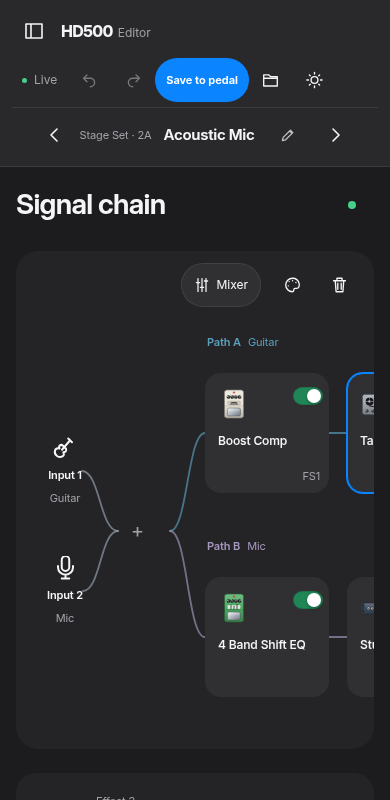
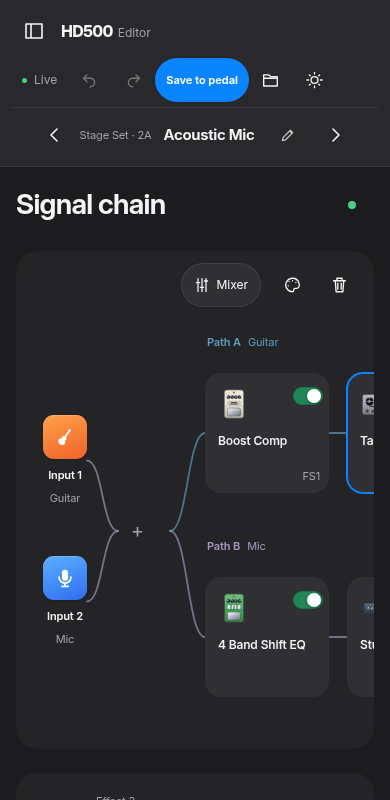
Apple-style input/output tiles (guitar, mic, output)

Changed region(s): [[0.0923, 0.5, 0.3077, 0.8125]]

diff --git a/app/public/js/chain.js b/app/public/js/chain.js
@@ -141,6 +141,22 @@ function prepareDrag(e,it,el) {
   const up=e=>{if(e.pointerId===g.pointer) finish();}, cancelEvent=()=>finish(true), esc=e=>{if(e.key==='Escape'){e.preventDefault();e.stopImmediatePropagation();finish(true);}};
   addEventListener('pointermove',move,{passive:false}); addEventListener('pointerup',up); addEventListener('pointercancel',cancelEvent); addEventListener('keydown',esc,true);
 }
+const NS='http://www.w3.org/2000/svg';
+const GLYPH={
+  guitar:{fill:'M10 9.6c1.4 0 2.3.8 2.3 1.9 0 .5-.2.9-.5 1.2.9.4 1.5 1.3 1.5 2.4 0 1.7-1.5 2.9-3.3 2.9s-3.3-1.2-3.3-2.9c0-1.1.6-2 1.5-2.4-.3-.3-.5-.7-.5-1.2 0-1.1.9-1.9 2.3-1.9z M9.2 1.6h1.6v2.6H9.2z',stroke:'M10 4.2v6',rot:35},
+  mic:{fill:'M10 2.5a2.8 2.8 0 0 1 2.8 2.8v4.4a2.8 2.8 0 0 1-5.6 0V5.3A2.8 2.8 0 0 1 10 2.5z',stroke:'M4.6 9.2a5.4 5.4 0 0 0 10.8 0 M10 14.6v3 M7.2 17.6h5.6'},
+  input:{fill:'M5 3h10v6.5a5 5 0 0 1-10 0z',stroke:'M7.6 3V1.5 M12.4 3V1.5 M10 14.5v3.5'},
+  output:{fill:'M3 7.6h3.2L10.4 4v12l-4.2-3.6H3z',stroke:'M13.2 7.2a4 4 0 0 1 0 5.6 M15.6 5a7.2 7.2 0 0 1 0 10'},
+};
+function ioTile(kind){
+  const g=GLYPH[kind]??GLYPH.input, svg=document.createElementNS(NS,'svg');
+  for(const [k,v] of Object.entries({viewBox:'0 0 20 20',width:22,height:22,fill:'none','aria-hidden':'true',focusable:'false'})) svg.setAttribute(k,v);
+  const f=document.createElementNS(NS,'path'); f.setAttribute('d',g.fill); f.setAttribute('fill','currentColor'); f.setAttribute('stroke','none');
+  const st=document.createElementNS(NS,'path'); st.setAttribute('d',g.stroke); st.setAttribute('stroke','currentColor'); st.setAttribute('stroke-width','1.6'); st.setAttribute('stroke-linecap','round'); st.setAttribute('stroke-linejoin','round');
+  if(g.rot) for(const e of [f,st]) e.setAttribute('transform',`rotate(${g.rot} 10 10)`);
+  svg.append(f,st);
+  return h('span',{class:`io-tile io-${kind}`},svg);
+}
 function sourceIcon(name) { return /mic/i.test(name)?'mic':/guitar|variax/i.test(name)?'guitar':'input'; }
 export function renderChain(root) {
   if(isDragging()) return;
@@ -157,11 +173,11 @@ export function renderChain(root) {
     Lane(pre,'Before',c[pre]),Block(get(amp)),Block(get(cab)),Lane(post,'After',c[post]));
   root.replaceChildren(
     h('div',{class:'io inputs',id:'chainInput'},
-      h('div',{class:'input-source',dataset:{source:1}},icon(sourceIcon(inName(setup.input1))),h('b',{},'Input 1'),h('span',{class:'source'},inName(setup.input1))),
-      h('div',{class:'input-source',dataset:{source:2}},icon(sourceIcon(inName(setup.input2===0?setup.input1:setup.input2))),h('b',{},'Input 2'),h('span',{class:'source'},inName(setup.input2)))),
+      h('div',{class:'input-source',dataset:{source:1}},ioTile(sourceIcon(inName(setup.input1))),h('b',{},'Input 1'),h('span',{class:'source'},inName(setup.input1))),
+      h('div',{class:'input-source',dataset:{source:2}},ioTile(sourceIcon(inName(setup.input2===0?setup.input1:setup.input2))),h('b',{},'Input 2'),h('span',{class:'source'},inName(setup.input2)))),
     Lane('pre','Before · shared',c.pre),
     h('div',{class:'paths'},row('A',0,1,'aPre','aPost'),row('B',2,3,'bPre','bPost')),
-    Lane('post','After · mix',c.post),h('div',{class:'io',id:'chainOutput'},icon('output'),h('b',{},'Output'),h('span',{},'Stereo')));
+    Lane('post','After · mix',c.post),h('div',{class:'io',id:'chainOutput'},ioTile('output'),h('b',{},'Output'),h('span',{},'Stereo')));
   resizeObserver?.disconnect(); resizeObserver=new ResizeObserver(()=>drawWires()); resizeObserver.observe(root);
   requestAnimationFrame(drawWires);
 }

diff --git a/app/public/css/app.css b/app/public/css/app.css
@@ -1989,3 +1989,12 @@ main { gap:28px; padding:32px; }
 @media (max-width:799px) { main { padding:16px; gap:24px; } #inspector, #side { padding:20px; } .workspace-heading h1 { font-size:28px; } .insp-title .model-title { font-size:22px; } .knobs { gap:24px 8px; } }
 
 .legend-dot { width:8px; height:8px; flex:none; border-radius:50%; }
+
+/* Input / output tiles: iOS-style rounded squares with a soft gradient */
+.io-tile { display:grid; place-items:center; width:44px; height:44px; border-radius:11px; color:#fff;
+  background:linear-gradient(160deg,var(--tile-a),var(--tile-b)); box-shadow:0 1px 2px #0003, inset 0 .5px 0 #fff5; }
+.io-guitar { --tile-a:#ffa24a; --tile-b:#f0622a; }
+.io-mic { --tile-a:#5ab0ff; --tile-b:#2f6df0; }
+.io-input { --tile-a:#9aa3b2; --tile-b:#6a7383; }
+.io-output { --tile-a:#4fd67c; --tile-b:#23a559; }
+.io b { margin-top:2px; }
